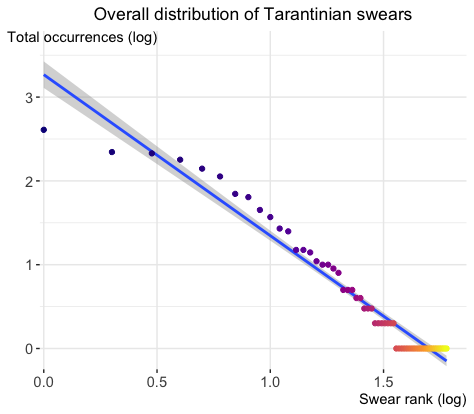
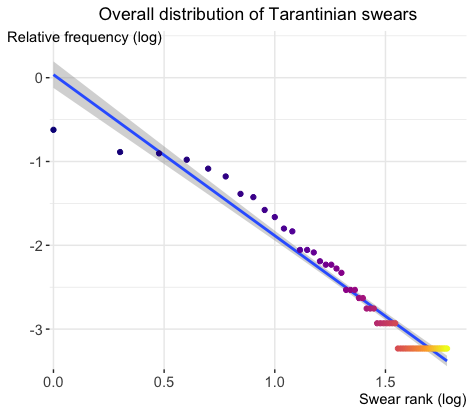
fit Yule-Simon

diff --git a/tarantino/README.md b/tarantino/README.md
@@ -26,4 +26,8 @@ Swear frequency in the Tarantino corpus drops off fast as rank increases, sugges
 
 The fit is very poor: the top swears are much less frequent than Zipf's law would predict.
 
-TODO: fit Yule-Simon
+Minimising the square error (in log space) between a Yule-Simon distribution and the actual swear distribution finds a best fit parameter ρ = 0.820.
+
+![Distribution of all swears and Yule-Simon fit](log_yule.png)
+
+However, the fit is still poor. This shows that Tarentinian swears are not distributed like overall words.
